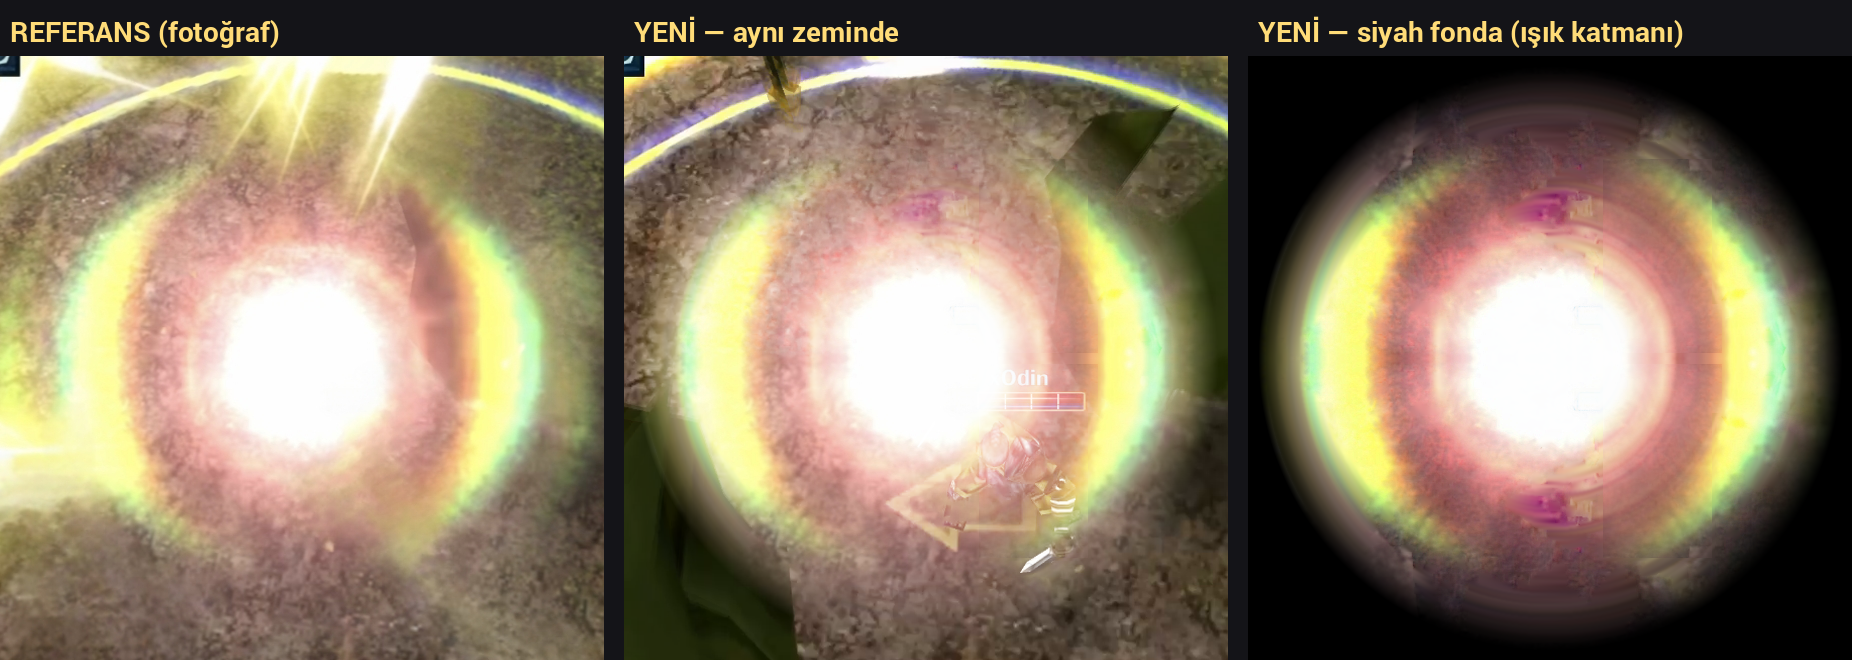
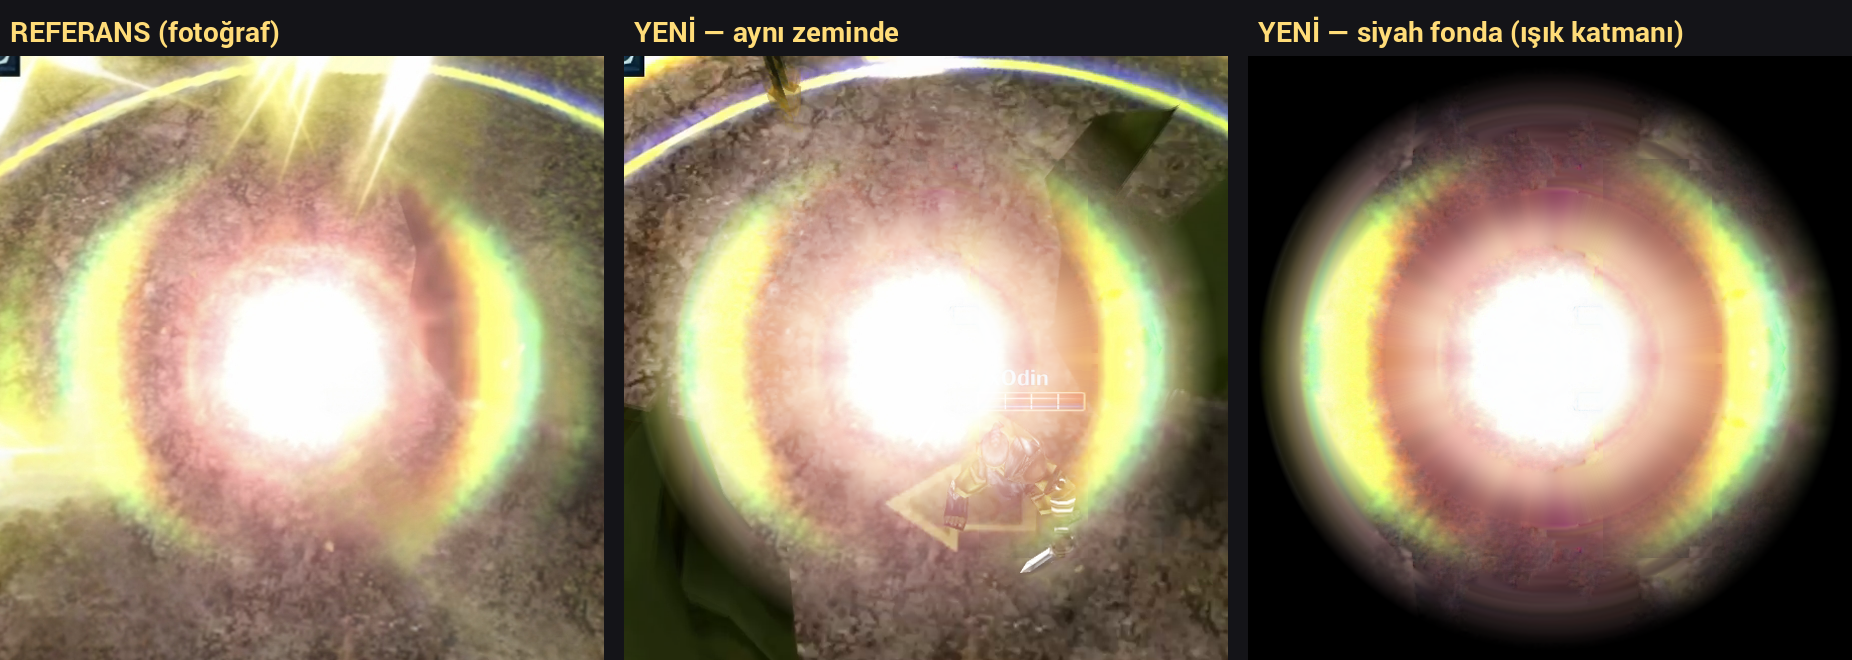
Efekt 10 küre (referans): somon-pembe bulut halkası kaldırıldı, yeri iç şeftali → dış turuncu yumuşak geçiş
Claude-Session: https://claude.ai/code/session_01E9c1WiJsMc9gXSJZ9D4z6g

diff --git a/arayuz/araclar/efekt10/kure_ref.py b/arayuz/araclar/efekt10/kure_ref.py
@@ -54,6 +54,16 @@ T=E*(1-w)+dol*w
 # ust yari = alt yarinin dikey aynasi (kullanici: alt %50 dogru renkler); merkez cizgisinde 12 px yumusak gecis
 ust=np.clip((CY+6-yy)/12,0,1)[...,None]
 T=T*(1-ust)+T[my,xx]*ust
+# somon-pembe bulut halkasi (r 120-160) kaldirildi: yumusak kenarli olarak saydama iner
+ux=np.cos(np.arctan2(yy-CY,xx-CX)); uy=np.sin(np.arctan2(yy-CY,xx-CX))
+def ornek(r0):
+    px=np.clip(np.round(CX+r0*ux).astype(int),0,W-1); py=np.clip(np.round(CY+r0*uy).astype(int),0,H-1)
+    return ndimage.gaussian_filter(T,(4,4,0))[py,px]
+ic_,dis_=ornek(114),ornek(168)
+f=np.clip((R-114)/54,0,1)[...,None]; f=f*f*(3-2*f)
+gecis=ic_*(1-f)+dis_*f
+bant=np.clip((R-112)/6,0,1)*np.clip((170-R)/6,0,1)
+T=T*(1-bant[...,None])+gecis*bant[...,None]
 # daire disi (isaretli bolge disi) yumusakca saydam
 T=T*np.clip((RMAX+30-R)/45,0,1)[...,None]
 os.makedirs(K,exist_ok=True)
